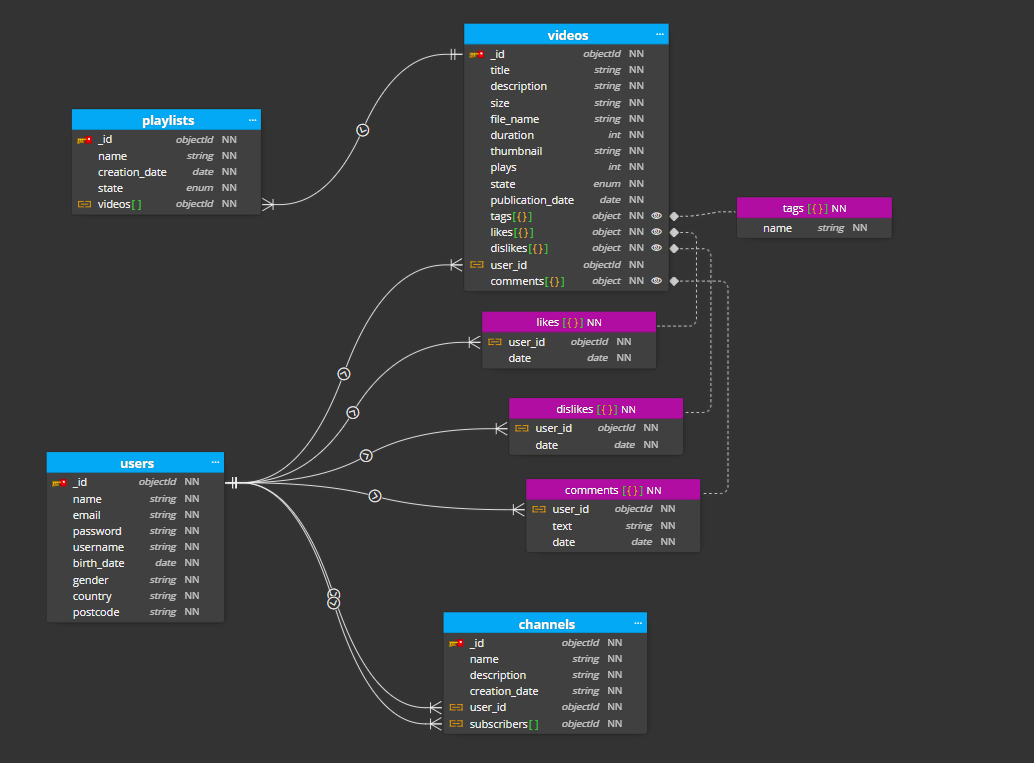
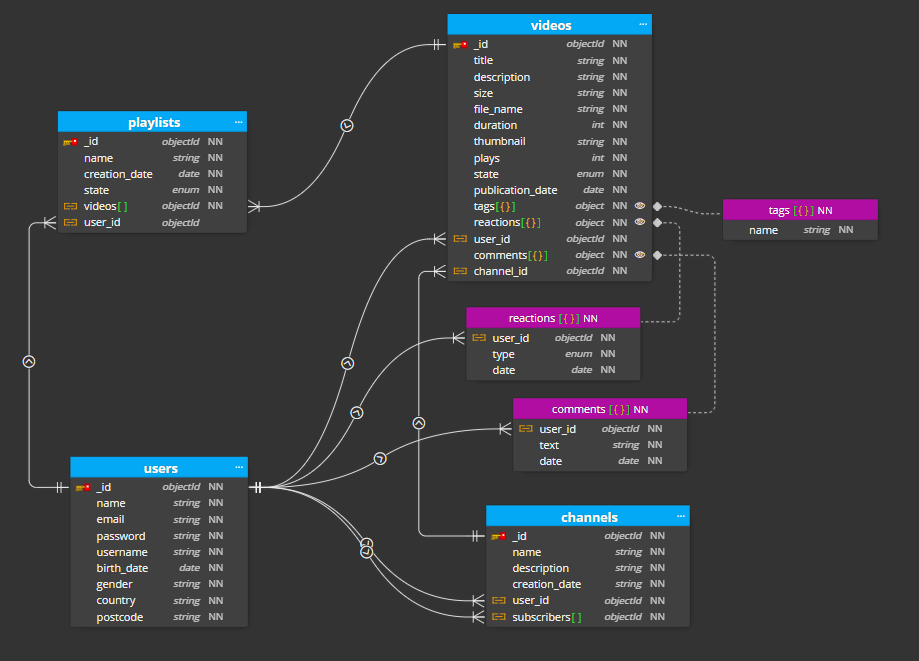
fix: updated some fields in some youtube collections

diff --git a/Level3/scripts/videos.js b/Level3/scripts/videos.js
@@ -3,7 +3,7 @@ db.createCollection("videos", {
     $jsonSchema: {
       "bsonType": "object",
       "title": "videos",
-      "required": ["title", "description", "size", "file_name", "duration", "thumbnail", "plays", "state", "publication_date", "tags", "likes", "dislikes", "user_id", "comments"],
+      "required": ["title", "description", "size", "file_name", "duration", "thumbnail", "plays", "state", "publication_date", "tags", "reactions", "user_id", "comments", "channel_id"],
       "properties": {
         "title": {
           "bsonType": "string"
@@ -44,29 +44,17 @@ db.createCollection("videos", {
             }
           }  
         },
-        "likes": {
+        "reactions": {
           "bsonType": "array",
           "items": {
             "title": "object",
-            "required": ["user_id", "date"],
+            "required": ["user_id", "type", "date"],
             "properties": {
               "user_id": {
                 "bsonType": "objectId"
               },
-              "date": {
-                "bsonType": "date"
-              }
-            }
-          }  
-        },
-        "dislikes": {
-          "bsonType": "array",
-          "items": {
-            "title": "object",
-            "required": ["user_id", "date"],
-            "properties": {
-              "user_id": {
-                "bsonType": "objectId"
+              "type": {
+                "enum": ['like','dislike']
               },
               "date": {
                 "bsonType": "date"
@@ -94,6 +82,9 @@ db.createCollection("videos", {
               }
             }
           }  
+        },
+        "channel_id": {
+          "bsonType": "objectId"
         }
       }  
     } 

diff --git a/Level3/scripts/playlists.js b/Level3/scripts/playlists.js
@@ -19,6 +19,9 @@ db.createCollection("playlists", {
           "items": {
             "bsonType": "objectId"
           }
+        },
+        "user_id": {
+          "bsonType": "objectId"
         }
       }  
     } 
